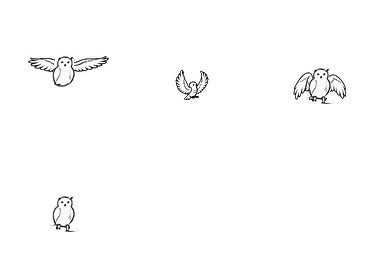
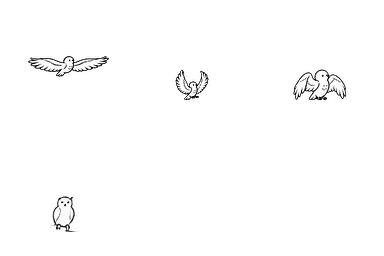
Owl: back to the pack's flying frames
The invite's owl pasted between the pack's wings did not work. Flying, taking off
and landing use the pack's frames again; perched, it is still the invite's owl.

Changed region(s): [[0.7812, 0.25, 0.875, 0.4062], [0.125, 0.2188, 0.2188, 0.3438]]

diff --git a/tools/import_assets.py b/tools/import_assets.py
@@ -9,8 +9,7 @@ high-quality reduction. Along the way, a few corrections (all listed in FIXES be
     (house and trees, measured on art/trees/background.png): the same mean ink darkness
     and the same stroke width, with one tone curve per character, then each frame levelled to the
     same darkness so no frame looks paler than its neighbours.
-  - owl: it is the invitation's own owl, cut out of the invite (see invite_owl): as it is when
-    perched, and in place of the pack's bird between the pack's wings when it flies.
+  - owl: perched, it is the invitation's own owl, cut out of the invite (see invite_owl).
   - register: in the deer's walk cycle the body slides ±7 px back and forth (the frames are
     aligned on the feet), which makes the walk judder. Those frames are re-centred on the body.
   - scale: three couple frames (lean in, kiss, smile) drawn ~4 % smaller are brought back to size.
@@ -160,21 +159,6 @@ def invite_owl(blink=False):
     return np.dstack([grey, grey, grey, alpha * 255]).round().astype(np.uint8)
 
 
-def erased(px, cx, cy, rx, ry):
-    """The frame with an ellipse cleared (to take the pack's bird out from between its wings)."""
-    yy, xx = np.mgrid[0:px.shape[0], 0:px.shape[1]]
-    out = px.copy()
-    out[((xx - cx) / rx) ** 2 + ((yy - cy) / ry) ** 2 <= 1] = 0
-    return out
-
-
-def over(px, piece, x, y):
-    """The frame with a piece drawn over it at (x, y)."""
-    im = Image.fromarray(px)
-    im.alpha_composite(piece, (x, y))
-    return np.asarray(im)
-
-
 # the drawing's own pen: what every character is matched to
 DRAWING = site / "art/trees/background.png"      # the drawing without the owl (served as a WebP)
 PEN = line([darkness(np.asarray(Image.open(DRAWING).convert("RGBA")))])
@@ -224,30 +208,9 @@ for name, a in assets.items():
           f"(curve x{k:.2f}, gamma {gamma:.2f})")
 
     if name == "owl":
-        # It is the invitation's own owl in every frame (the pack's was a different bird: round head, in
-        # profile). Perched (0 at rest, 1 blinking, 15 just settled): the invite's owl as it is.
-        rest = invite_owl()
-        frames[0], frames[1], frames[15] = rest, invite_owl(blink=True), rest
-        # Taking off and landing (3, 14): the pack's wings, the invite's owl standing in front of them.
-        # Crouching before take-off (2): the invite's owl, a little squashed onto its feet.
-        for i, hole in {3: (71, 84, 12, 16), 14: (65, 84, 9, 16)}.items():
-            frames[i] = over(erased(erased(frames[i], *hole), 82, 76, 9, 11) if i == 3 else erased(frames[i], *hole),
-                             Image.fromarray(rest), 0, 0)
-        squat = Image.fromarray(rest).convert("RGBa").resize((CELL, round(CELL * .9)), Image.LANCZOS).convert("RGBA")
-        frames[2] = repen([np.asarray(over(np.zeros_like(rest), squat, 0, 100 - round(100 * .9)))], *PEN)[0][0]
-        # Flying and gliding (4 – 12): the pack's wings, with the invite's owl (head and body, without
-        # its feet, at its own size and in its own line) in place of the pack's little round bird.
-        body = Image.new("RGBA", (28, 36), (0, 0, 0, 0))
-        body.paste(Image.fromarray(rest).crop((50, 64, 78, 97)), (0, 0))
-        # (without its feet the outline is open underneath: closed with one shallow pen stroke)
-        ink_ = np.nonzero(darkness(np.asarray(body))[32] > INK)[0]
-        belly = Image.new("RGBA", (28 * 4, 36 * 4), (0, 0, 0, 0))
-        ImageDraw.Draw(belly).arc((ink_.min() * 4, 26 * 4, ink_.max() * 4 + 4, 34 * 4 + 2), 12, 168, fill=(60, 60, 60, 235), width=6)
-        body.alpha_composite(belly.convert("RGBa").resize(body.size, Image.LANCZOS).convert("RGBA"))
-        CENTRES = {4: (65, 64), 5: (63, 64), 6: (64, 63), 7: (69, 58), 8: (62, 54), 9: (61, 57),
-                   10: (64, 63), 11: (64, 64), 12: (64, 63)}        # where the pack's bird is, in each cell
-        for i, (cx, cy) in CENTRES.items():
-            frames[i] = over(erased(frames[i], cx, cy + 1, 10, 12), body, cx - body.width // 2, cy - 11)
+        # perched, it is the invitation's own owl (0 at rest, 1 blinking, 15 just settled); the pack's
+        # perched owl was a different bird (round head, in profile)
+        frames[0], frames[1], frames[15] = invite_owl(), invite_owl(blink=True), invite_owl()
 
     for s, sheet_path in enumerate(a["sheets"]):
         sheet = Image.new("RGBA", (COLS * CELL, ROWS * CELL), (0, 0, 0, 0))
